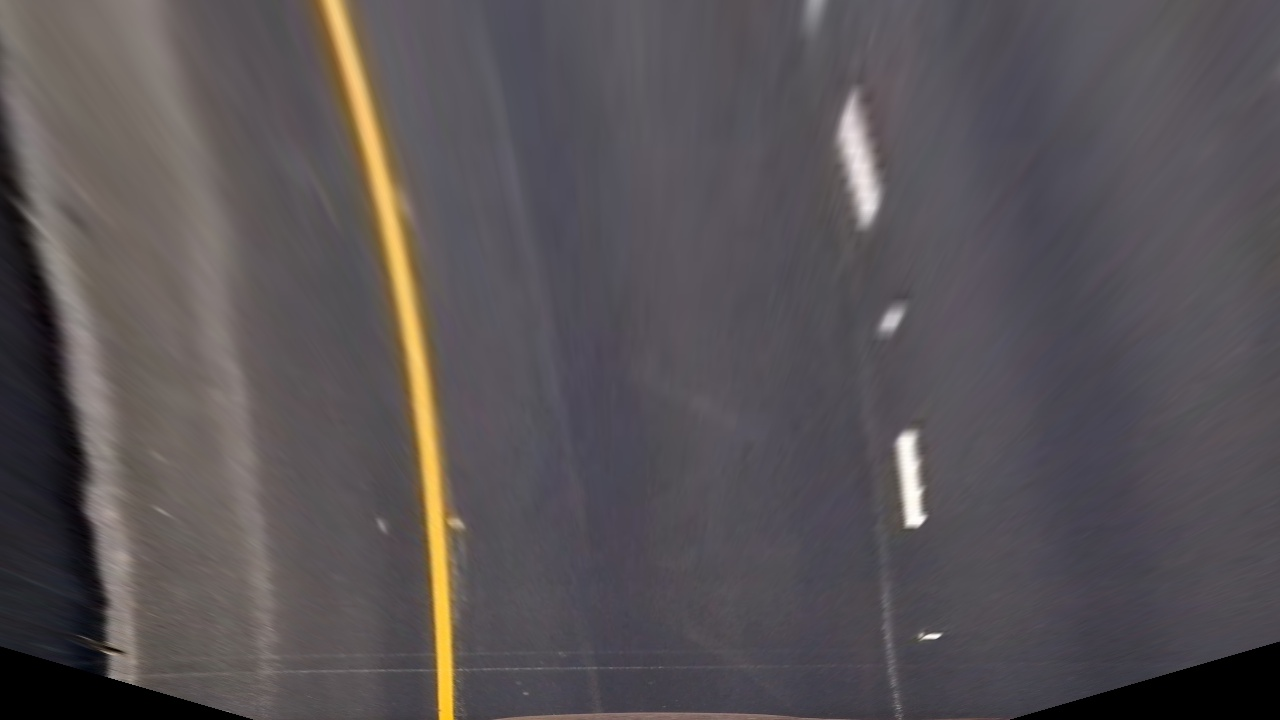
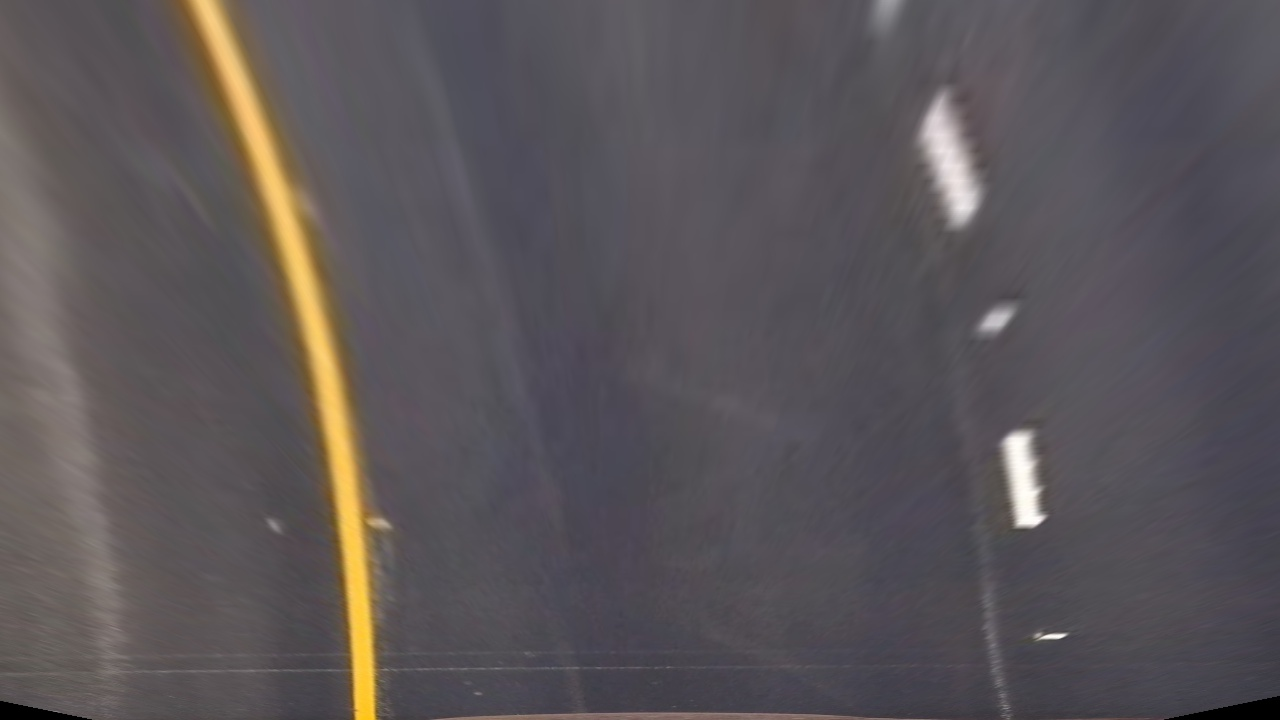
Reduce custom horizontal offset in perspective detection

diff --git a/lanelines/camera.py b/lanelines/camera.py
@@ -26,7 +26,7 @@ class Camera:
     def undistort(self, image):
         return cv2.undistort(image, self.camera_matrix, self.dist_coeffs, None, self.camera_matrix)
 
-    def detect_perspective(self, image, source_points, dest_points=None, offset_x=400, offset_y=100):
+    def detect_perspective(self, image, source_points, dest_points=None, offset_x=300, offset_y=100):
         if dest_points is None:
             dest_points = np.float32([(offset_x, offset_y), (image.shape[1] - offset_x, offset_y),
                                       (image.shape[1] - offset_x, image.shape[0]), (offset_x, image.shape[0])])
